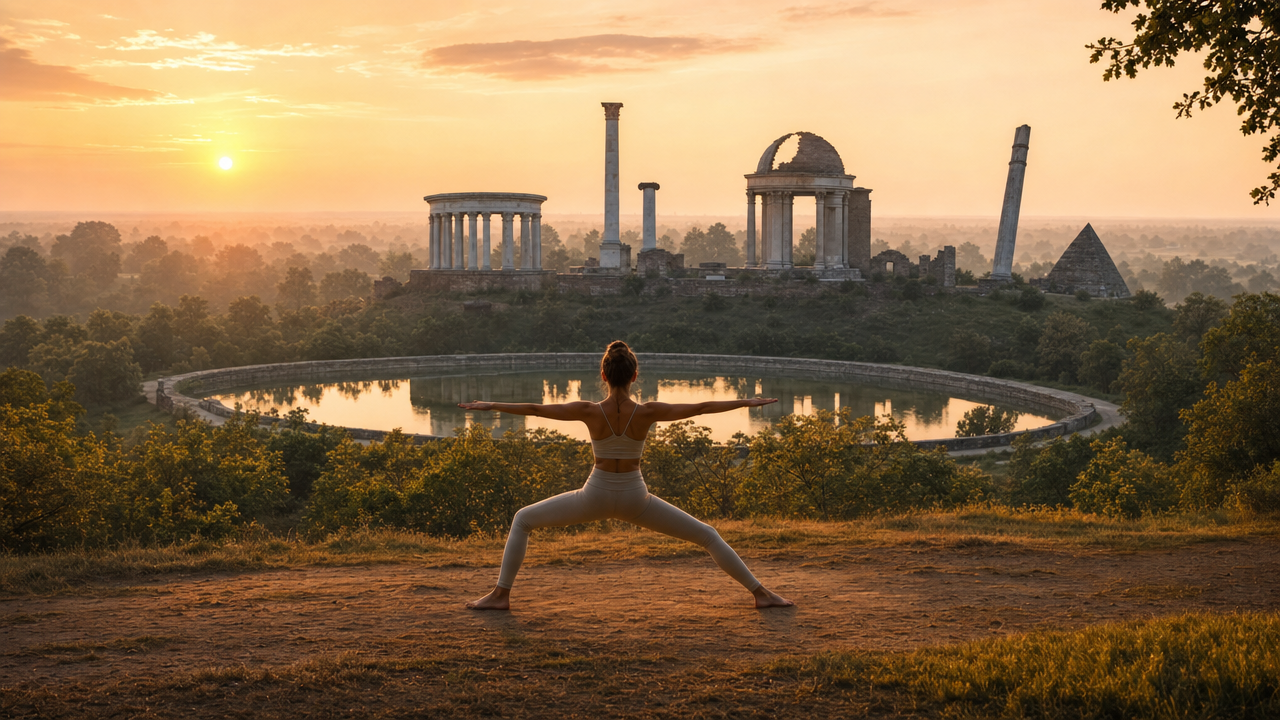
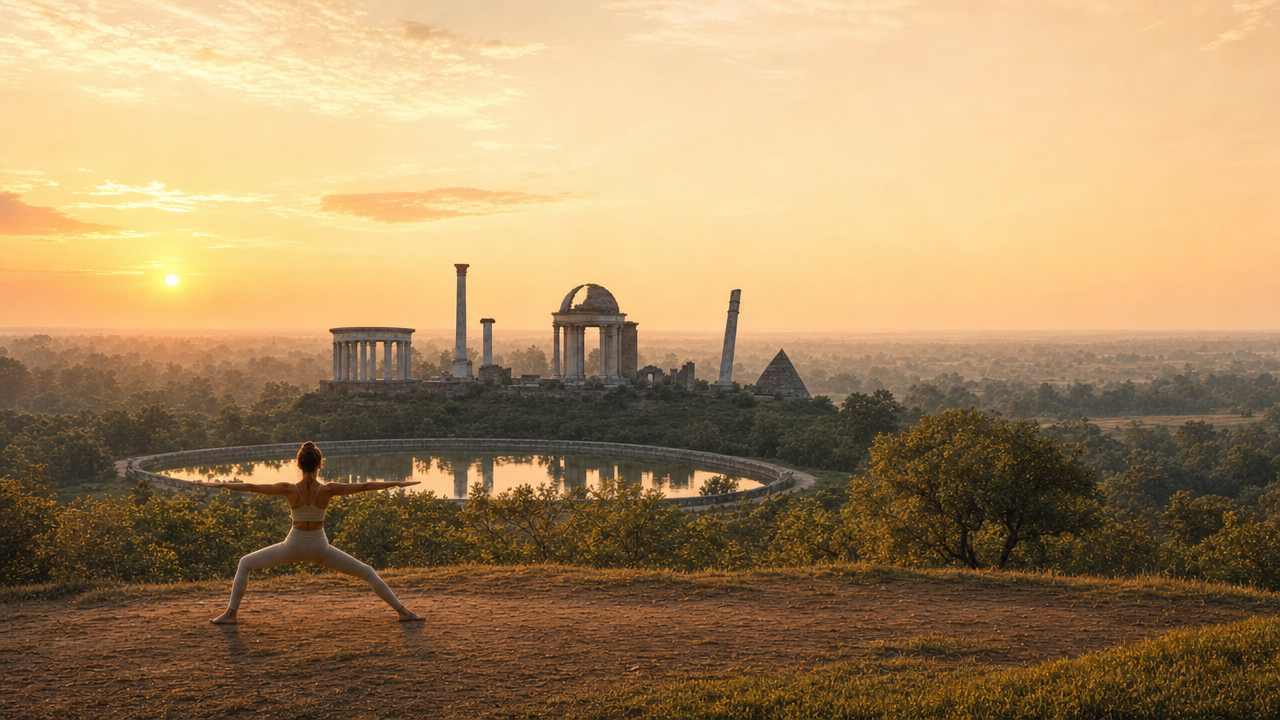
feat: hero composition — woman on left, text/CTA on right (no overlap); mobile keeps figure-left text-right

diff --git a/index.html b/index.html
@@ -32,14 +32,13 @@
     -webkit-font-smoothing:antialiased;
   }
 
-  /* ---------- Hero: полноширинный, компактный — контент ниже выглядывает ---------- */
+  /* ---------- Hero: полноширинный, компактный; женщина слева, текст справа ---------- */
   .hero{
     position:relative;
     width:100%;
     min-height:72vh;
     display:flex;
     align-items:center;
-    justify-content:center;
     overflow:hidden;
   }
   .hero-img{
@@ -48,38 +47,41 @@
     width:100%;
     height:100%;
     object-fit:cover;
-    object-position:center 22%;
+    object-position:left 22%;
   }
-  /* Градиент-оверлей: затемнение внизу и с краёв, чтобы текст читался на любом фото */
+  /* Градиент-оверлей: затемнение справа и снизу (под текст+CTA), без перекрытия фигуры слева */
   .hero-overlay{
     position:absolute;
     inset:0;
-    background:linear-gradient(to top, rgba(75,55,43,.74), rgba(75,55,43,0) 55%),
-               linear-gradient(to bottom, rgba(75,55,43,.35), rgba(75,55,43,0) 30%);
+    background:linear-gradient(to right, rgba(75,55,43,0) 0%, rgba(75,55,43,.35) 45%, rgba(75,55,43,.82) 100%),
+               linear-gradient(to top, rgba(75,55,43,.5), rgba(75,55,43,0) 55%);
     pointer-events:none;
   }
   .hero-copy{
     position:relative;
     z-index:2;
-    max-width:720px;
-    padding:0 1.5rem;
-    text-align:center;
+    max-width:560px;
+    margin-left:auto;   /* прижать к правому краю (свободная правая часть) */
+    margin-top:auto;margin-bottom:auto;
+    align-self:center;
+    padding:0 2rem 1.2rem;
+    text-align:left;
     color:#fff;
   }
   .hero-copy h1{
     font-family:var(--serif);
     font-weight:500;
-    font-size:clamp(2.1rem,5.2vw,3.7rem);
-    line-height:1.12;
+    font-size:clamp(2rem,5vw,3.4rem);
+    line-height:1.1;
     letter-spacing:-0.01em;
     margin-bottom:1rem;
-    text-shadow:0 2px 18px rgba(0,0,0,.35);
+    text-shadow:0 2px 16px rgba(0,0,0,.4);
   }
   .hero-sub{
     color:rgba(255,255,255,.92);
-    font-size:1.1rem;
-    margin-bottom:1.6rem;
-    text-shadow:0 1px 8px rgba(0,0,0,.3);
+    font-size:1.05rem;
+    margin-bottom:1.5rem;
+    text-shadow:0 1px 8px rgba(0,0,0,.35);
   }
   .btn{
     display:inline-block;
@@ -87,8 +89,8 @@
     color:#fff;
     font-family:var(--sans);
     font-weight:500;
-    font-size:1rem;
-    padding:0.85rem 1.7rem;
+    font-size:0.98rem;
+    padding:0.8rem 1.6rem;
     border-radius:999px;
     text-decoration:none;
     box-shadow:0 12px 26px -16px rgba(201,129,83,.55);
@@ -97,11 +99,11 @@
   .btn:hover{transform:translateY(-2px);box-shadow:0 16px 30px -16px rgba(201,129,83,.6);}
   /* Строчка доверия под CTA (паттерн успешных лендингов: trust signal у первого CTA) */
   .hero-trust{
-    margin-top:1.2rem;
+    margin-top:1.1rem;
     color:rgba(255,255,255,.85);
-    font-size:0.95rem;
+    font-size:0.92rem;
     font-family:var(--sans);
-    text-shadow:0 1px 6px rgba(0,0,0,.3);
+    text-shadow:0 1px 6px rgba(0,0,0,.35);
   }
   /* Скролл-намек: лёгкий шеврон внизу героя, говорит «контент ниже» */
   .scroll-hint{
@@ -192,14 +194,14 @@
 
   /* ---------- Мобильная адаптивность ---------- */
   @media(max-width:720px){
-    /* На мобиле hero = фото-лента + текст, НЕ во весь экран — контент виден сразу */
-    .hero{min-height:0;}
-    .hero{aspect-ratio:4/5;}
-    .hero-copy{padding:0 1.1rem;}
-    .hero-copy h1{text-align:center;font-size:clamp(1.6rem,6.5vw,2.2rem);}
-    .hero-sub{text-align:center;font-size:1rem;}
-    .btn{display:block;width:100%;max-width:320px;margin:0 auto;text-align:center;}
-    .hero-trust{text-align:center;}
+    /* На мобиле hero: фигура слева, текст справа — НЕ перекрываем фигуру, контент виден ниже */
+    .hero{min-height:0;aspect-ratio:auto;padding:5.5rem 1.2rem 1.6rem;}
+    .hero-img{object-position:left 20%;}
+    .hero-copy{max-width:none;margin-left:auto;margin-right:0;padding:0;text-align:left;width:58%;}
+    .hero-copy h1{text-align:left;font-size:clamp(1.5rem,5.8vw,1.9rem);}
+    .hero-sub{text-align:left;font-size:0.98rem;}
+    .btn{display:inline-block;width:auto;}
+    .hero-trust{text-align:left;}
     main{padding-top:1.6rem;}
     .lead{text-align:center;}
   }
